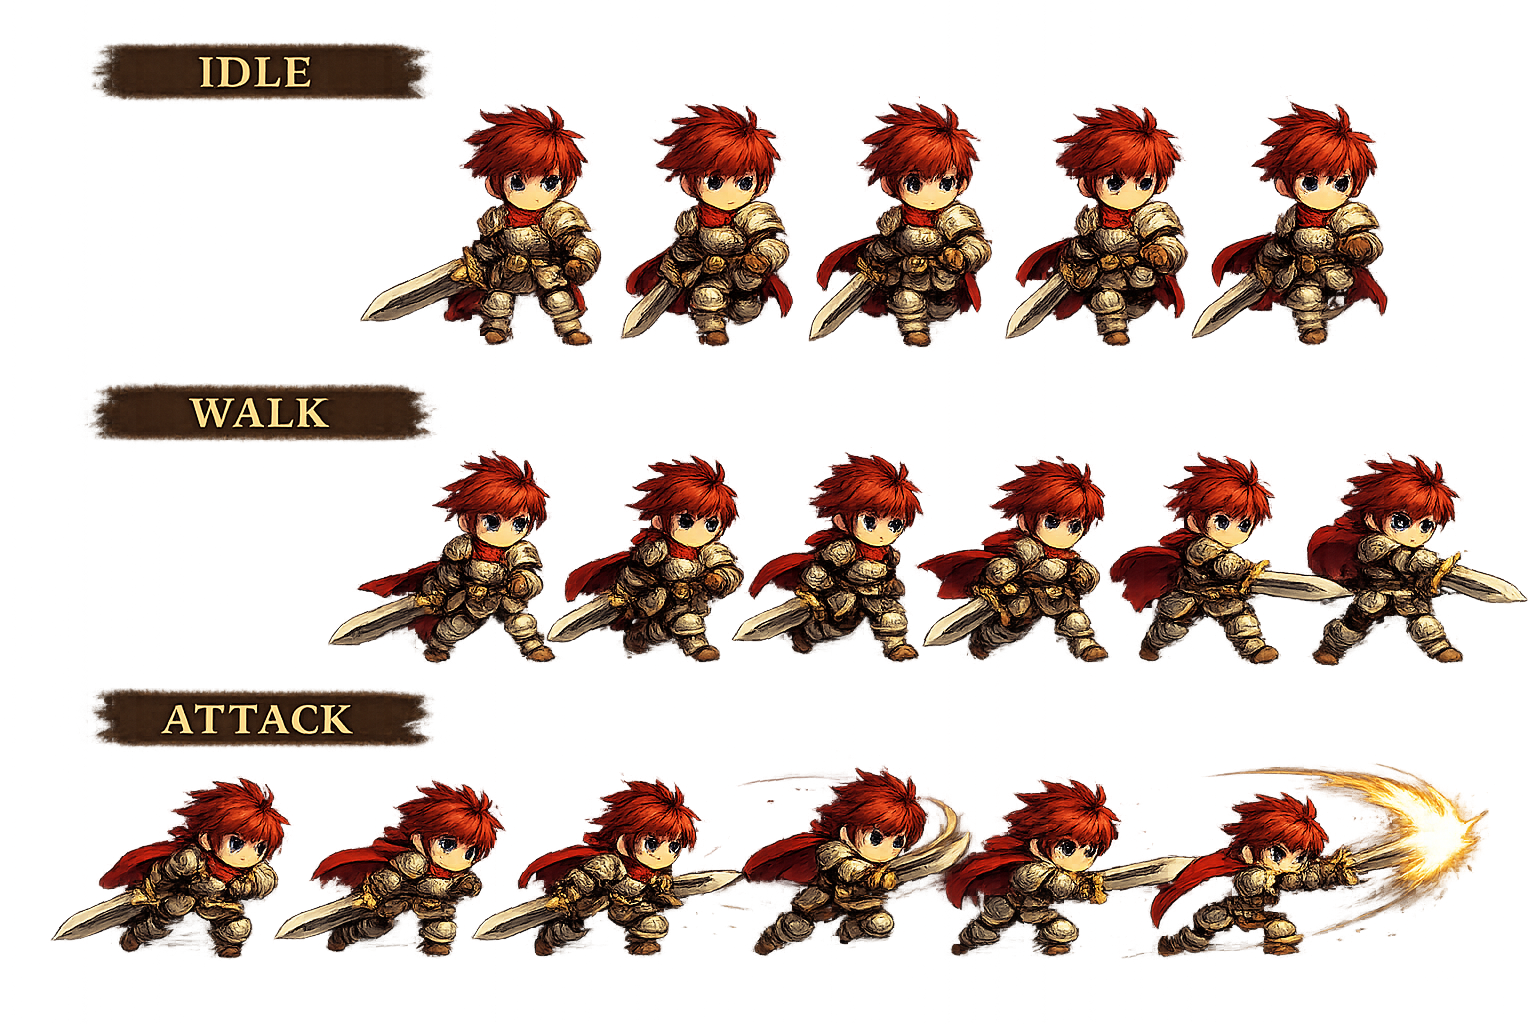
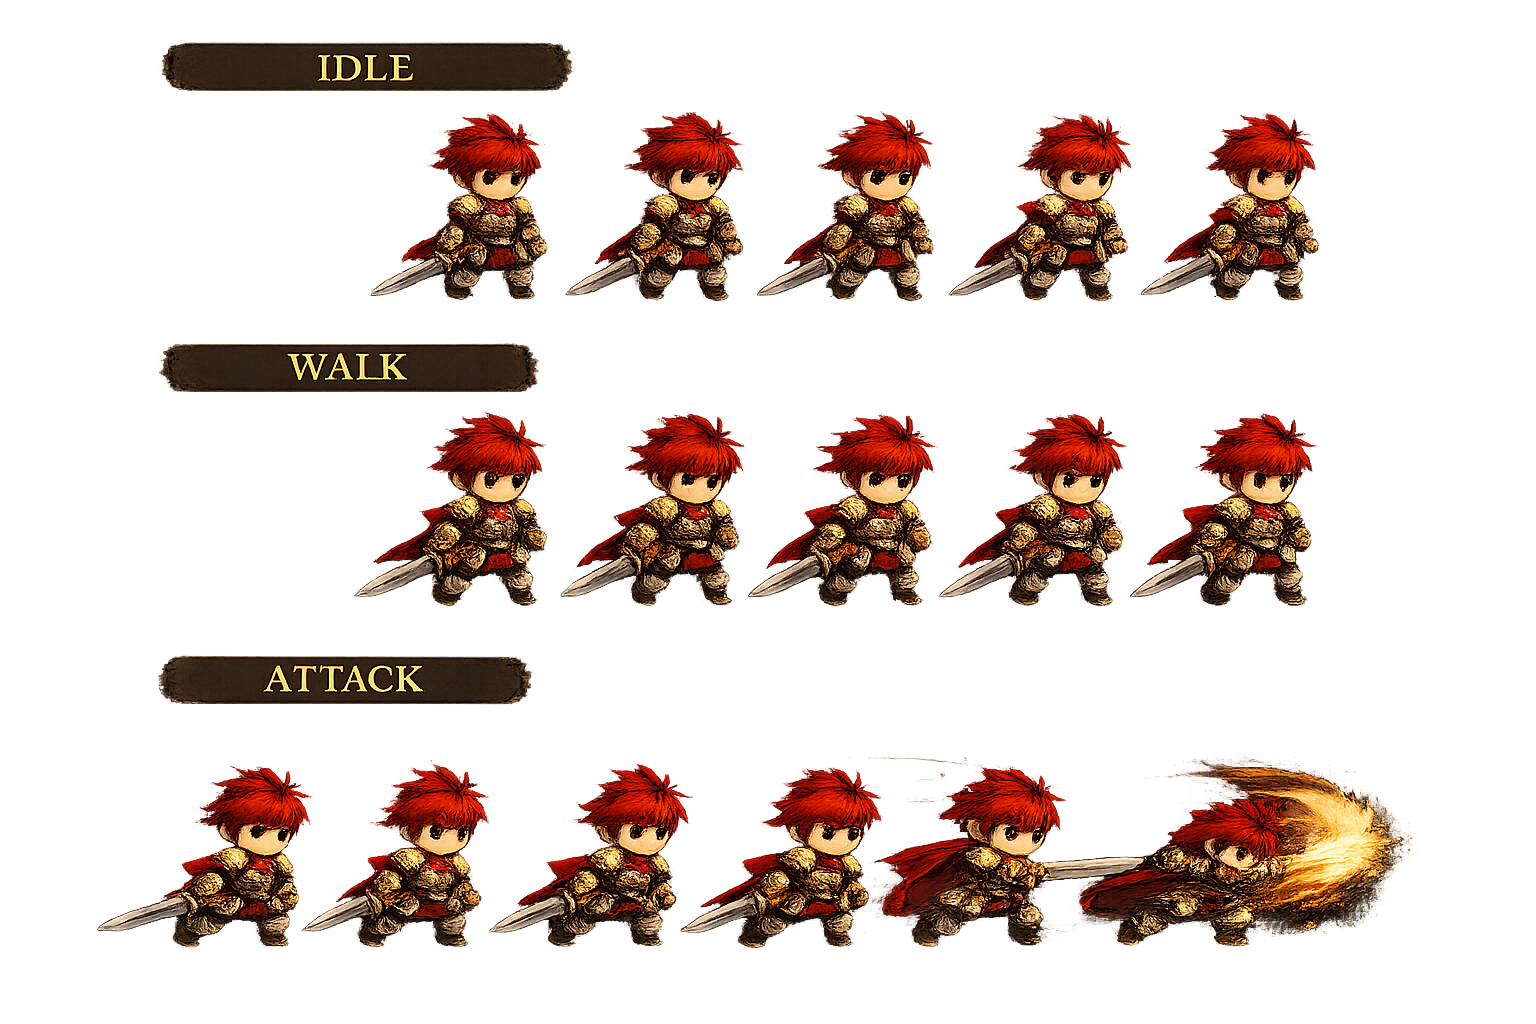
dd

diff --git a/login.html b/login.html
@@ -1172,8 +1172,8 @@ if(fighterAnimTick > 8){
     // WALK
     if(moving){
 
-        if(fighterFrame > 1000)
-            fighterFrame = 0;
+if(fighterFrame > 5)
+    fighterFrame = 0;
     }
 
     // IDLE
@@ -1501,91 +1501,40 @@ ctx.ellipse(
 ctx.fillStyle = "rgba(0,0,0,0.35)";
 ctx.fill();
 
-const idleFrames = [
-    {x:430,y:20},
-    {x:620,y:20},
-    {x:810,y:20},
-    {x:1000,y:20},
-    {x:1190,y:20},
-    {x:1380,y:20}
-];
+const frameWidth = 256;
+const frameHeight = 256;
 
-const walkFrames = [
-    {x:430,y:360},
-    {x:620,y:360},
-    {x:810,y:360},
-    {x:1000,y:360},
-    {x:1190,y:360},
-    {x:1380,y:360}
-];
+let frameY = 0;
 
-const attackFrames = [
-    {x:40,y:760},
-    {x:250,y:760},
-    {x:500,y:760},
-    {x:760,y:760},
-    {x:1010,y:760},
-    {x:1260,y:760}
-];
+// idle
+if(!moving){
+    frameY = 0;
+}
 
-let animFrames = idleFrames;
-
+// walk
 if(moving){
-    animFrames = walkFrames;
+    frameY = 1;
 }
 
+// attack
 if(attackFlash > 0){
-    animFrames = attackFrames;
-}
-
-const frame =
-    animFrames[
-        fighterFrame % animFrames.length
-    ];
-
-let srcSize = 220;
-
-let drawX = playerPos.x-52;
-let drawY = playerPos.y-110+playerFloat;
-
-let drawSize = 110;
-
-// WALK
-if(moving){
-
-    srcSize = 240;
-
-    drawX = playerPos.x-58;
-    drawY = playerPos.y-118+playerFloat;
-
-    drawSize = 118;
-}
-
-// ATTACK
-if(attackFlash > 0){
-
-    srcSize = 300;
-
-    drawX = playerPos.x-78;
-    drawY = playerPos.y-150+playerFloat;
-
-    drawSize = 150;
+    frameY = 2;
 }
 
 ctx.drawImage(
     fighterSheet,
 
-    frame.x,
-    frame.y,
+    fighterFrame * frameWidth,
+    frameY * frameHeight,
 
-    srcSize,
-    srcSize,
+    frameWidth,
+    frameHeight,
 
-    drawX,
-    drawY,
+    playerPos.x-64,
+    playerPos.y-128+playerFloat,
 
-    drawSize,
-    drawSize
+    128,
+    128
 );
         // UI
         ctx.fillStyle = "white";
